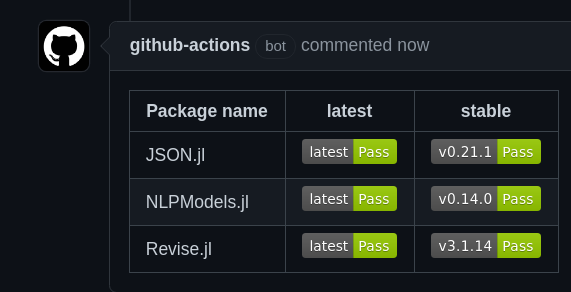
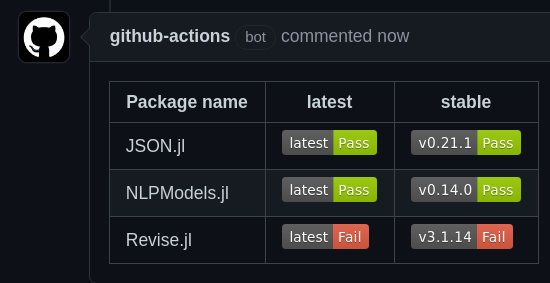
Make Revise fail to show as example.

Changed region(s): [[0.1855, 0.2827, 0.9891, 0.9611], [0.0309, 0.0565, 1.0, 0.2544], [0.1855, 0.0283, 1.0, 0.0565]]

diff --git a/README.md b/README.md
@@ -5,18 +5,21 @@ When the tests are done, you'll receive a comment on the PR like this:
 
 ![](pr-comment.png)
 
+Don't worry about Revise.jl being broken there, it's just an example.
+
 ## Clarifications
 
 - Use this workflow on your most core packages to test your dependent packages.
-- This test will work even if the pull request is from outside the repo.
-- The GitHub action shouldn't fail even if the package breaks something. Instead, the badge will be ![](https://img.shields.io/badge/package-Fail-red.svg).
-- Both `latest` and `stable`, download the package, `dev` the PR, and `test` the package.
-- The `latest` test will clone the package, using the full url. So the default branch of the repository is used.
+- This workflow should work even if the pull request is from outside the repo.
+- The GitHub action shouldn't fail even if the package breaks something. Instead, the badge will be ![](https://img.shields.io/badge/package-Fail-red.svg). See [PR#2](https://github.com/abelsiqueira/Breakage/pull/2) for example.
+- Both `latest` and `stable` work similarly: download the package, `dev` the PR, and `test` the package.
+- The `latest` test will clone the package using the full url. So the default branch of the repository is used.
 - The `stable` test will clone the package and checkout the latest tag. It won't use `pkg> add` to prevent `Pkg` from resolving conflicts.
 - It should work on any branch because it's activate by a pull-request.
 - `CommentPR.yml` can't be modified during the pull request, i.e., changes to it won't be in effect until after the PR is merged.
 - `Breakage.yml` can be modified, you can change the packages on `Breakage.yml`, make a pull request, and see the new version in action ([Example](https://github.com/abelsiqueira/Breakage/pull/1)).
 - It only works on Julia packages, because it will `dev` into it. That's why this is a julia package.
+- This is failing on Revise by design, because it becomes a circular dependency.
 
 ## Install
 
